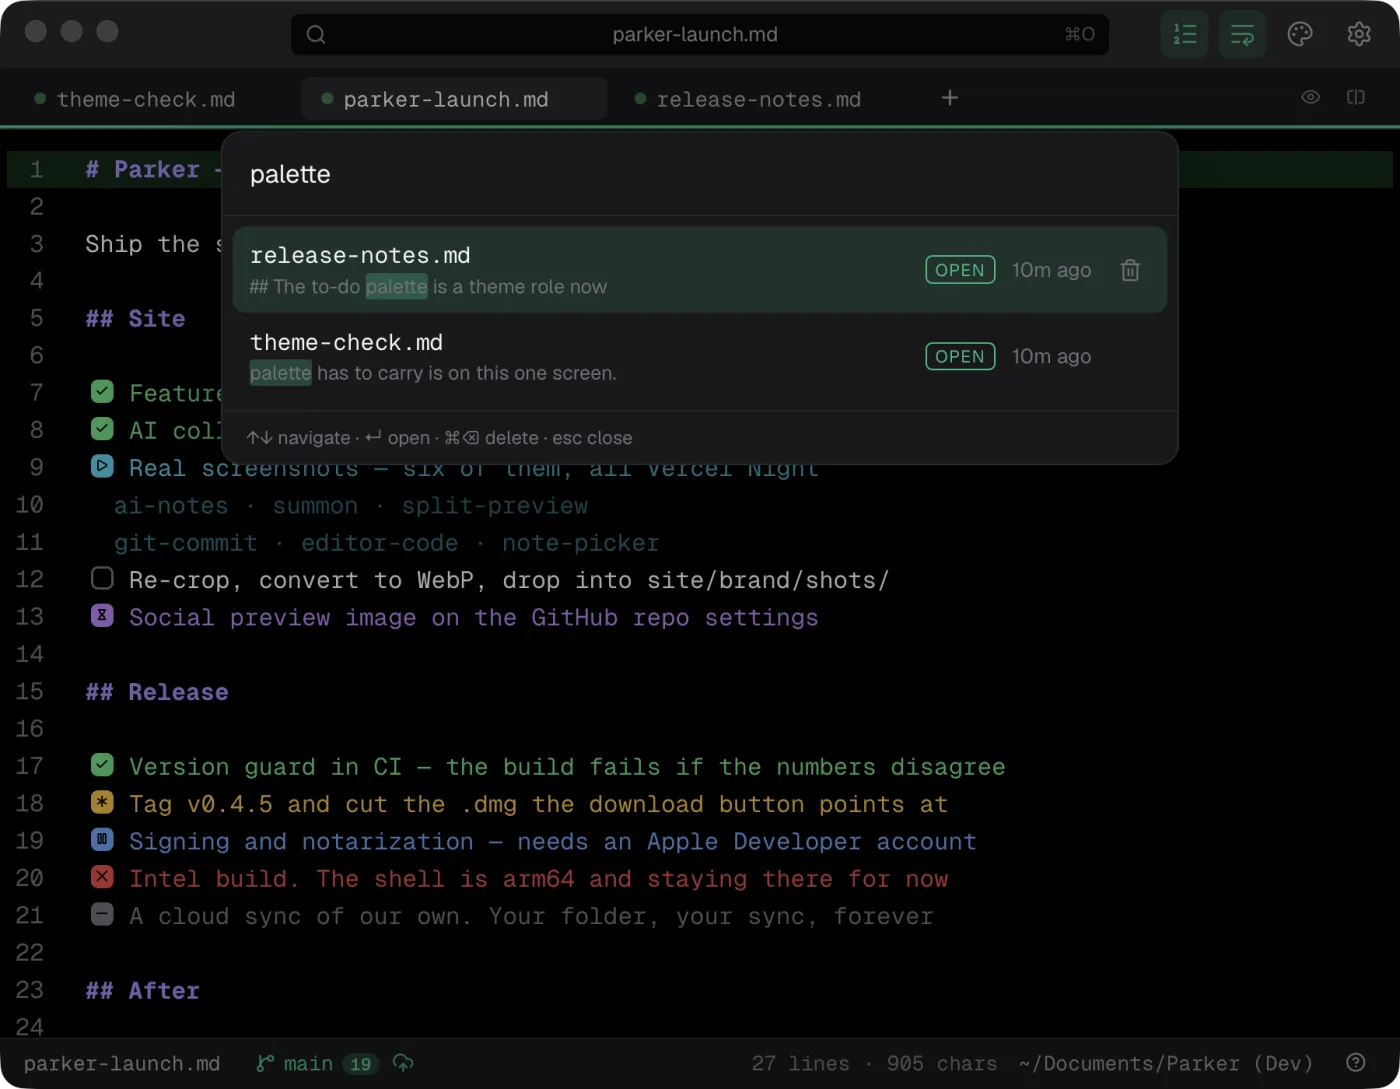
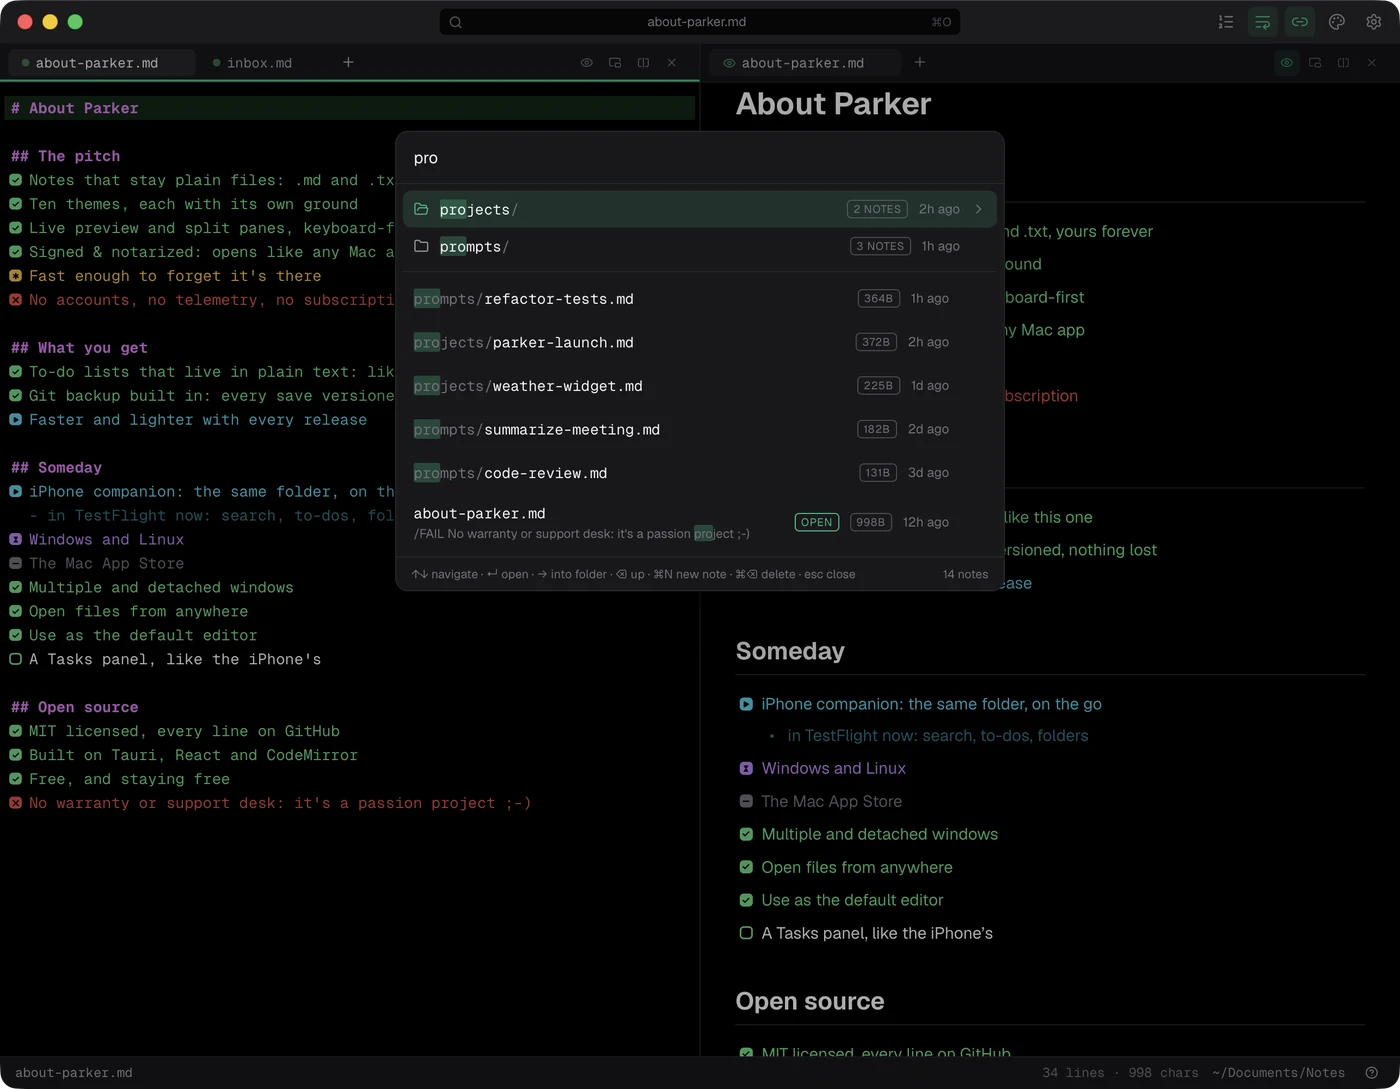
The site fits a phone, shows the new work, and the iPhone teaser moves
Phones: the "Let your AI into your notes" card's terminal transcript, with
its unwrapped lines, made the whole page 512px wide on a 375px screen —
the grid columns are minmax(0, …) now, the transcript scrolls inside its
card, and the ambient glow is capped at the viewport.

Features: the panes section shows a note in a window of its own, pinned
over the main window, and below it the preview lit where the editor's
selection is; the picker shot searches "pro" and finds the projects and
prompts folders first; the to-do demo has the three priorities — bangs in
the tag, the box's border yellow to red, and the rotate keeps the bangs.
Every shot comes from a staging folder with user-like content (projects,
prompts, journal, reading) rather than the Dev folder.

Home: the iPhone teaser is a phone drawn in CSS with five of the app's real
screens crossfading — the notes list with its folders, a folder, the inbox
with priorities, Tasks, a search that finds folders — still under Coming
soon; reduced motion gets the first screen. The theme count says ten.

diff --git a/site/features/index.html b/site/features/index.html
@@ -192,9 +192,15 @@
 
       <div class="sc-shot reveal">
         <figure class="shot-frame">
-          <img src="/brand/shots/parker-split-preview.webp" width="1400" height="1089"
+          <img src="/brand/shots/parker-note-window.webp" width="1400" height="982"
                decoding="async" loading="lazy"
-               alt="Screenshot: three panes — a Markdown note, its live preview, and a second note." />
+               alt="Screenshot: the main window with a note and its live preview side by side, and a second note floating in a window of its own, pinned on top." />
+        </figure>
+        <figure class="shot-frame shot-second">
+          <img src="/brand/shots/parker-preview-sync.webp" width="1400" height="1089"
+               decoding="async" loading="lazy"
+               alt="Screenshot: two lines selected in the editor, and the same two items lit in the preview beside it." />
+          <figcaption>The preview follows the editor — cursor, selection and scroll.</figcaption>
         </figure>
       </div>
     </section>
@@ -211,6 +217,9 @@
           <strong>cancelled</strong> is not the same as <strong>failed</strong>.
         </p>
         <p>
+          Add bangs for priority — <code>/TODO!</code>, <code>/TODO!!</code>, <code>/TODO!!!</code> —
+          and the box's border says how loud, yellow to red; <kbd aria-label="Control Command Up arrow"><svg class="ki" viewBox="0 0 24 24" fill="none" stroke="currentColor" stroke-width="2.25" stroke-linecap="round" stroke-linejoin="round" aria-hidden="true"><path d="m18 15-6-6-6 6"/></svg><svg class="ki" viewBox="0 0 24 24" fill="none" stroke="currentColor" stroke-width="2.25" stroke-linecap="round" stroke-linejoin="round" aria-hidden="true"><path d="M15 6v12a3 3 0 1 0 3-3H6a3 3 0 1 0 3 3V6a3 3 0 1 0-3 3h12a3 3 0 1 0-3-3"/></svg><svg class="ki" viewBox="0 0 24 24" fill="none" stroke="currentColor" stroke-width="2.25" stroke-linecap="round" stroke-linejoin="round" aria-hidden="true"><path d="m5 12 7-7 7 7"/><path d="M12 19V5"/></svg></kbd> and
+          <kbd aria-label="Control Command Down arrow"><svg class="ki" viewBox="0 0 24 24" fill="none" stroke="currentColor" stroke-width="2.25" stroke-linecap="round" stroke-linejoin="round" aria-hidden="true"><path d="m18 15-6-6-6 6"/></svg><svg class="ki" viewBox="0 0 24 24" fill="none" stroke="currentColor" stroke-width="2.25" stroke-linecap="round" stroke-linejoin="round" aria-hidden="true"><path d="M15 6v12a3 3 0 1 0 3-3H6a3 3 0 1 0 3 3V6a3 3 0 1 0-3 3h12a3 3 0 1 0-3-3"/></svg><svg class="ki" viewBox="0 0 24 24" fill="none" stroke="currentColor" stroke-width="2.25" stroke-linecap="round" stroke-linejoin="round" aria-hidden="true"><path d="M12 5v14"/><path d="m19 12-7 7-7-7"/></svg></kbd> turn it up and down without touching the text.
           Press <kbd aria-label="Command Return"><svg class="ki" viewBox="0 0 24 24" fill="none" stroke="currentColor" stroke-width="2.25" stroke-linecap="round" stroke-linejoin="round" aria-hidden="true"><path d="M15 6v12a3 3 0 1 0 3-3H6a3 3 0 1 0 3 3V6a3 3 0 1 0-3 3h12a3 3 0 1 0-3-3"/></svg><svg class="ki" viewBox="0 0 24 24" fill="none" stroke="currentColor" stroke-width="2.25" stroke-linecap="round" stroke-linejoin="round" aria-hidden="true"><path d="M20 4v7a4 4 0 0 1-4 4H4"/><path d="m9 10-5 5 5 5"/></svg></kbd> to rotate a line, click a box to complete it, ⌥-click to pick
           a state. And it's still one word of plain text in the file — greppable, diffable,
           and <strong>legible to the agent working in the same note</strong>.
@@ -232,6 +241,18 @@
             <div class="todo-row" data-state="todo">
               <div class="todo-src"><span class="todo-tag">/TODO</span></div>
               <button class="todo-out" type="button"><span class="tbox"><span class="tglyph"></span></span>Write the launch post</button>
+            </div>
+            <div class="todo-row" data-state="todo" data-priority="1">
+              <div class="todo-src"><span class="todo-tag">/TODO!</span></div>
+              <button class="todo-out" type="button"><span class="tbox"><span class="tglyph"></span></span>Reply to the beta testers</button>
+            </div>
+            <div class="todo-row" data-state="todo" data-priority="2">
+              <div class="todo-src"><span class="todo-tag">/TODO!!</span></div>
+              <button class="todo-out" type="button"><span class="tbox"><span class="tglyph"></span></span>Fix the picker on a narrow window</button>
+            </div>
+            <div class="todo-row" data-state="todo" data-priority="3">
+              <div class="todo-src"><span class="todo-tag">/TODO!!!</span></div>
+              <button class="todo-out" type="button"><span class="tbox"><span class="tglyph"></span></span>Renew the certificate before Friday</button>
             </div>
             <div class="todo-row" data-state="doing">
               <div class="todo-src"><span class="todo-tag">/DOING</span></div>
@@ -369,7 +390,7 @@
         <figure class="shot-frame">
           <img src="/brand/shots/parker-note-picker.webp" width="1400" height="1089"
                decoding="async" loading="lazy"
-               alt="Screenshot: Parker's note picker open, searching by name and content." />
+               alt="Screenshot: the note picker searching “pro” — the projects and prompts folders first, then the notes, with the hit highlighted." />
         </figure>
       </div>
     </section>

diff --git a/site/styles.css b/site/styles.css
@@ -95,7 +95,9 @@ img { max-width: 100%; height: auto; }
   position: fixed;
   top: -20vh; left: 50%;
   transform: translateX(-50%);
-  width: min(1200px, 120vw);
+  /* Never wider than the viewport: on a phone a 120vw glow was the one thing
+     that could be scrolled to sideways. */
+  width: min(1200px, 100vw);
   height: 700px;
   background: radial-gradient(50% 50% at 50% 50%, var(--glow), transparent 70%);
   pointer-events: none;
@@ -357,6 +359,56 @@ h1 {
 }
 .companion-shot { display: block; margin: 0 auto; max-width: 220px; }
 .companion-shot img { display: block; width: 100%; height: auto; }
+
+/* The iPhone teaser: a phone drawn in CSS, and inside it the app's real
+   screens (simulator captures, status bar included) crossfading — one
+   screen every four seconds, five screens to a lap. Each frame's animation
+   starts one slot later than the last, so exactly one is up at a time. */
+.phone {
+  position: relative;
+  width: 100%;
+  aspect-ratio: 402 / 874;
+  padding: 3.2%;
+  border-radius: 13% / 6%;
+  background: #0a0a0a;
+  border: 1px solid #2a2a2e;
+  box-shadow:
+    inset 0 0 0 1.5px #1c1c1f,
+    0 24px 50px rgba(0, 0, 0, 0.45);
+}
+.phone .screen {
+  position: relative;
+  width: 100%;
+  height: 100%;
+  border-radius: 10.5% / 4.9%;
+  overflow: hidden;
+  background: #000;
+}
+.phone .screen img {
+  position: absolute;
+  inset: 0;
+  width: 100%;
+  height: 100%;
+  object-fit: cover;
+  opacity: 0;
+  animation: phone-frames 20s ease-in-out infinite both;
+}
+.phone .screen img:nth-child(1) { animation-delay: 0s; }
+.phone .screen img:nth-child(2) { animation-delay: 4s; }
+.phone .screen img:nth-child(3) { animation-delay: 8s; }
+.phone .screen img:nth-child(4) { animation-delay: 12s; }
+.phone .screen img:nth-child(5) { animation-delay: 16s; }
+@keyframes phone-frames {
+  0%   { opacity: 1; }
+  17%  { opacity: 1; }
+  21%  { opacity: 0; }
+  96%  { opacity: 0; }
+  100% { opacity: 1; }
+}
+@media (prefers-reduced-motion: reduce) {
+  .phone .screen img { animation: none; }
+  .phone .screen img:first-child { opacity: 1; }
+}
 .companion-tag {
   display: inline-block;
   font-family: var(--font-mono);
@@ -461,7 +513,10 @@ h1 {
 /* philosophy strip */
 .strip {
   display: grid;
-  grid-template-columns: 1.15fr 1fr;
+  /* minmax(0, …): a grid child's default min-width is its content, and the
+     terminal transcript's unwrapped lines used to push the whole card past
+     the phone's screen. */
+  grid-template-columns: minmax(0, 1.15fr) minmax(0, 1fr);
   gap: clamp(28px, 5vw, 64px);
   align-items: center;
   background: var(--bg-elevated);
@@ -566,7 +621,10 @@ h1 {
   border-radius: var(--radius);
   padding: 22px 24px;
   box-shadow: var(--shadow);
+  min-width: 0;
+  overflow-x: auto; /* the transcript keeps its lines; a narrow screen scrolls it */
 }
+.strip-text { min-width: 0; }
 .tree { font-family: var(--font-mono); font-size: 13.5px; line-height: 2; color: #d4d4d8; }
 .tree-row { white-space: nowrap; }
 .tree-row.muted, .tree .muted { color: #71717a; }
@@ -666,7 +724,7 @@ h1 {
 /* ───────────────────── Responsive ───────────────────── */
 @media (max-width: 860px) {
   .grid { grid-template-columns: repeat(2, 1fr); }
-  .strip { grid-template-columns: 1fr; }
+  .strip { grid-template-columns: minmax(0, 1fr); }
   .strip-visual { order: -1; }
 }
 @media (max-width: 640px) {
@@ -797,6 +855,7 @@ kbd .ki + .ki { margin-left: 0.06em; }
   box-shadow: var(--shadow);
 }
 .shot-frame img { display: block; width: 100%; height: auto; }
+.shot-second { margin-top: 18px; }
 .shot-frame figcaption {
   font-family: var(--font-mono);
   font-size: 12px;
@@ -905,6 +964,11 @@ kbd .ki + .ki { margin-left: 0.06em; }
 .todo-row[data-state="done"]   { --c: #4ade80; }
 .todo-row[data-state="fail"]   { --c: #ef4444; }
 .todo-row[data-state="cancel"] { --c: #71717a; }
+/* priority: the empty box's border, yellow → orange → red, as in the app
+   (shared/design-tokens.json → priority); a state other than open drops it */
+.todo-row[data-state="todo"][data-priority="1"] .tglyph { border-color: #facc15; }
+.todo-row[data-state="todo"][data-priority="2"] .tglyph { border-color: #fb923c; }
+.todo-row[data-state="todo"][data-priority="3"] .tglyph { border-color: #ef4444; }
 .todo-row:not([data-state="todo"]) .todo-out { color: var(--c); }
 .todo-row:not([data-state="todo"]) .tglyph {
   background: var(--c);

diff --git a/site/index.html b/site/index.html
@@ -194,7 +194,7 @@
             <svg viewBox="0 0 24 24" width="20" height="20" fill="none" stroke="currentColor" stroke-width="1.7" stroke-linecap="round" stroke-linejoin="round"><path d="M12 22a1 1 0 0 1 0-20 10 9 0 0 1 10 9 5 5 0 0 1-5 5h-2.25a1.75 1.75 0 0 0-1.4 2.8l.3.4a1.75 1.75 0 0 1-1.4 2.8z"/><circle cx="13.5" cy="6.5" r=".5" fill="currentColor"/><circle cx="17.5" cy="10.5" r=".5" fill="currentColor"/><circle cx="6.5" cy="12.5" r=".5" fill="currentColor"/><circle cx="8.5" cy="7.5" r=".5" fill="currentColor"/></svg>
           </div>
           <h3>Genuinely themeable</h3>
-          <p>Eight of them — monochrome Vercel and GitHub, plus the playa at noon and at night, a phosphor tube and a blueprint.</p>
+          <p>Ten of them — Parker Night and Day, monochrome Vercel and GitHub, the playa at noon and at night, a phosphor tube and a blueprint.</p>
         </article>
 
         <article class="card reveal">
@@ -269,17 +269,22 @@
         </div>
         <p class="cta-note">v1.4.0 · macOS 12+ · Apple Silicon</p>
         <div class="companion" aria-labelledby="companion-title">
-          <picture class="companion-shot">
-            <source srcset="/brand/parker-iphone-preview.webp" type="image/webp" />
-            <img src="/brand/parker-iphone-preview.png" width="619" height="1200" loading="lazy" decoding="async" alt="Parker for iPhone showing the Welcome note: to-do boxes, priorities and nested lines, in the Mac's colours" />
-          </picture>
+          <div class="companion-shot phone" role="img" aria-label="Parker for iPhone: the notes list with its folders, a folder, a note with to-dos and priorities, the tasks view, and a search that finds folders as well as notes.">
+            <div class="screen">
+              <img src="/brand/iphone/notes-root.webp" width="600" height="1305" loading="lazy" decoding="async" alt="" />
+              <img src="/brand/iphone/folder-prompts.webp" width="600" height="1305" loading="lazy" decoding="async" alt="" />
+              <img src="/brand/iphone/note-inbox.webp" width="600" height="1305" loading="lazy" decoding="async" alt="" />
+              <img src="/brand/iphone/tasks.webp" width="600" height="1305" loading="lazy" decoding="async" alt="" />
+              <img src="/brand/iphone/search-pro.webp" width="600" height="1305" loading="lazy" decoding="async" alt="" />
+            </div>
+          </div>
           <div class="companion-copy">
             <span class="companion-tag">Coming soon</span>
             <h3 id="companion-title">Parker for iPhone</h3>
             <p>
               The companion to the Mac app. It reads the same folder your Mac does,
-              so your notes and to-dos are with you: search them, tick them off,
-              jot the next one down. Same look, same plain files. No account,
+              so your notes and to-dos are with you: browse the folders, search them,
+                tick them off, jot the next one down. Same look, same plain files. No account,
               no server of ours, nothing leaves your folder.
             </p>
             <p class="companion-note">In testing now. Free, like the Mac app.</p>

diff --git a/site/script.js b/site/script.js
@@ -88,7 +88,9 @@
       var next = ORDER[(ORDER.indexOf(row.getAttribute("data-state")) + 1) % ORDER.length];
       row.setAttribute("data-state", next);
       row.querySelector(".tglyph").innerHTML = G[next];
-      row.querySelector(".todo-tag").textContent = TAG[next];
+      // The bangs ride along: priority is part of the tag, whatever the state.
+      var bangs = "!".repeat(Number(row.getAttribute("data-priority") || 0));
+      row.querySelector(".todo-tag").textContent = TAG[next] + bangs;
     });
   })();
 
